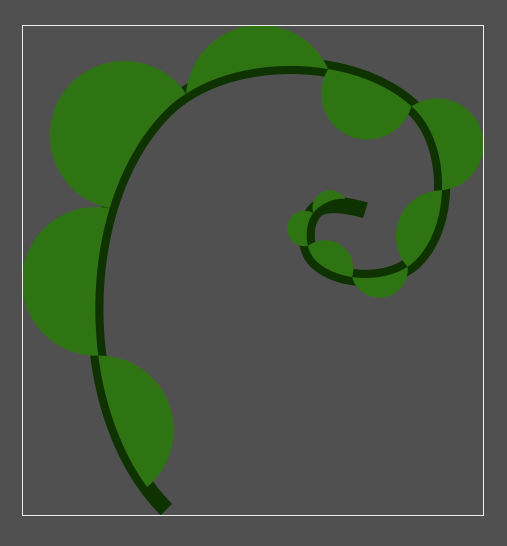
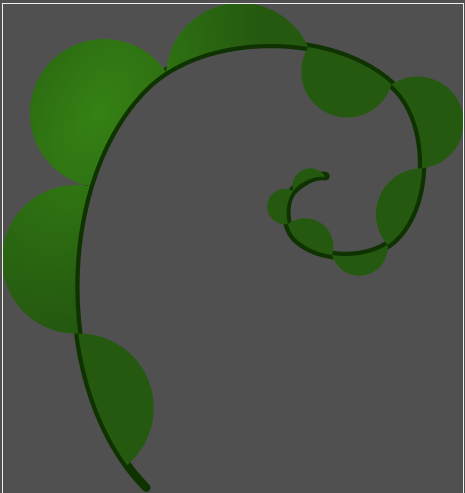
scale and center radial gradients

Changed region(s): [[0.0, 0.0, 1.0, 1.0], [0.0, 0.0, 0.0301, 0.0304]]

diff --git a/center_gradients.py b/center_gradients.py
@@ -1,11 +1,19 @@
 import inkex
 from lxml import etree
 
+# Core function I want to achieve: 
+# Group several objects
+# assign one (1) gradient to the group 
+# the extension should center them all to their objects, and scale them accordingly 
+# resetting to object center: works but currently needs ungrouping ✔ 
+# scaled gradient: pending  ✖  (gradient currently gets resized to former parent object) update: works in experiment 2d ✔  
+
 # Errors: 
 # 1. For some reason, element.bounding_box().left procudes a scalar, top produces a tuple 'left=-0.00029229975262476393, top=(0.0,) '
 # TODOs: 
 # 1. In the cases I testes with one gradient for two objects, Inkscape seems to have copied the gradient by the time the extension ran. 
 # I must look into this, how this is intended to be handled, maybe better create a copy inside the extension, to be safe. 
+# 2. Oops, the attribute is: gradientTransform, not gradientTransformation. Must fix this. 
 
 class CenterGradients(inkex.EffectExtension):
 
@@ -82,9 +90,68 @@ class CenterGradients(inkex.EffectExtension):
             gradient.set("cy", str(center_y))
             gradient.set("fx", str(center_x))
             gradient.set("fy", str(center_y))
-
-            # Delete the Transformation Matrix, which centers the gradient and resets the handles
+            # removing the matrix seems a necessary step, otherwise, 
+            # # the resetting to center points is not performed correctly (wrong scale -> wrong coordinate)
             gradient.attrib.pop("gradientTransform", None)
+
+            # Experiment 1
+            # Delete the Transformation Matrix, which centers the gradient and resets the handles
+            # only run: gradient.attrib.pop("gradientTransform", None): 
+            #gradient.attrib.pop("gradientTransform", None) # -> correctly places each gradient to the center point 
+            # of their object, but scales the handles up to the size of the original (grouped) object, which is wrong for some parts. 
+            # it should be set to the default size of the child object it belongs to (like, width/2 and height/2)
+
+            # Experiment 2
+            # #Replace the gradientTransform with the reset and scaled one
+
+            # Experiment 2a
+            # # This requires normalizing the radius to 1 
+            # gradient.set("r", "1") # nope that doesn't work 
+            # # scale gradient handles: 
+            # gradient.set(
+            #     "gradientTransformation", 
+            #     f"matrix({bbox.width/2} 0 0 {bbox.height/2} {center_x} {center_y})"
+            # ) # -> correctly places each gradient to the center point 
+            # of their object, but scales the handles all he way down now, which is wrong. 
+            # note that gradient.attrib.pop("gradientTransform", None) is necessar to run before. 
+
+            # Experiment 2b
+            # #Replace the gradientTransform with the reset and scaled one
+            # This requires normalizing the radius to 1 
+            # gradient.set("r", "1") # nope that doesn't work 
+            # # scale gradient handles: 
+            # gradient.set(
+            #     "gradientTransformation", 
+            #     f"matrix({1} 0 0 {1} 0 0)"
+            # ) # same as above 
+
+            # # Experiment 2c 
+            # # # Replace the gradientTransform with the reset and scaled one
+            # gradient.set("r", str(bbox.width/2))
+            # radius = float(gradient.get("r"))
+            # self.msg(f"radius saved as: {radius}")
+            # gradient.set(
+            #                 "gradientTransformation", 
+            #                 f"matrix({bbox.width/2/radius} 0 0 {bbox.height/2/radius} {center_x} {center_y} )"
+            #             ) 
+
+
+            # Experiment 2d 🥴🎉
+            rx = bbox.width / 2
+            ry = bbox.height / 2
+
+            gradient.set("cx", "0")
+            gradient.set("cy", "0")
+            gradient.set("fx", "0")
+            gradient.set("fy", "0")
+            gradient.set("r", "1")
+
+            gradient.set(
+                "gradientTransform",
+                f"matrix({rx} 0 0 {ry} {center_x} {center_y})"
+            ) # This one produces the desired result. 
+
+            
 
             # Show all relevant values again: 
             self.msg(f"Gradient attributes after manipulation: ")

diff --git a/README.md b/README.md
@@ -2,6 +2,9 @@
 
 > WIP: An experimental Inkscape extension for centering radial gradients on selected objects.
 
+Core function I want to achieve:
+Group several objects assign one (1) gradient to the group the extension should center them all to their objects, and scale them accordingly. Which it does, surprisingly.
+
 ## Current state
 
 - Finds selected objects.
@@ -10,10 +13,18 @@
 - Skips linear gradients.
 - Calculates the object's bounding-box center.
 - Sets `cx`, `cy`, `fx`, and `fy` to the object's center.
-- Removes `gradientTransform`.
+
+- centers radial gradients
+- resets focal point
+- removes previous gradient transform
+- normalizes the gradient radius to 1
+- reconstructs gradientTransform from object geometry
+- works on individual selected objects
+- linear gradients are skipped
+- groups are not yet recursively processed
 - Works on multiple selected objects.
+
 - Currently operates on directly selected objects, not the individual objects inside a selected group.
-- Gradient radius is not yet automatically adjusted for all objects.
 
 ## Next steps
 
@@ -36,3 +47,8 @@ Output something like
 ![Screenshot 1](/assets/screenshots/early-screenshot-1.png)
 -->
 ![Screenshot 2](/assets/screenshots/early-screenshot-2.png)
+
+## Next steps
+
+- work on groups (without prior ungrouping)
+- make another version that changes colors while preserving edits to gradients (scaling, rotating, ...)
